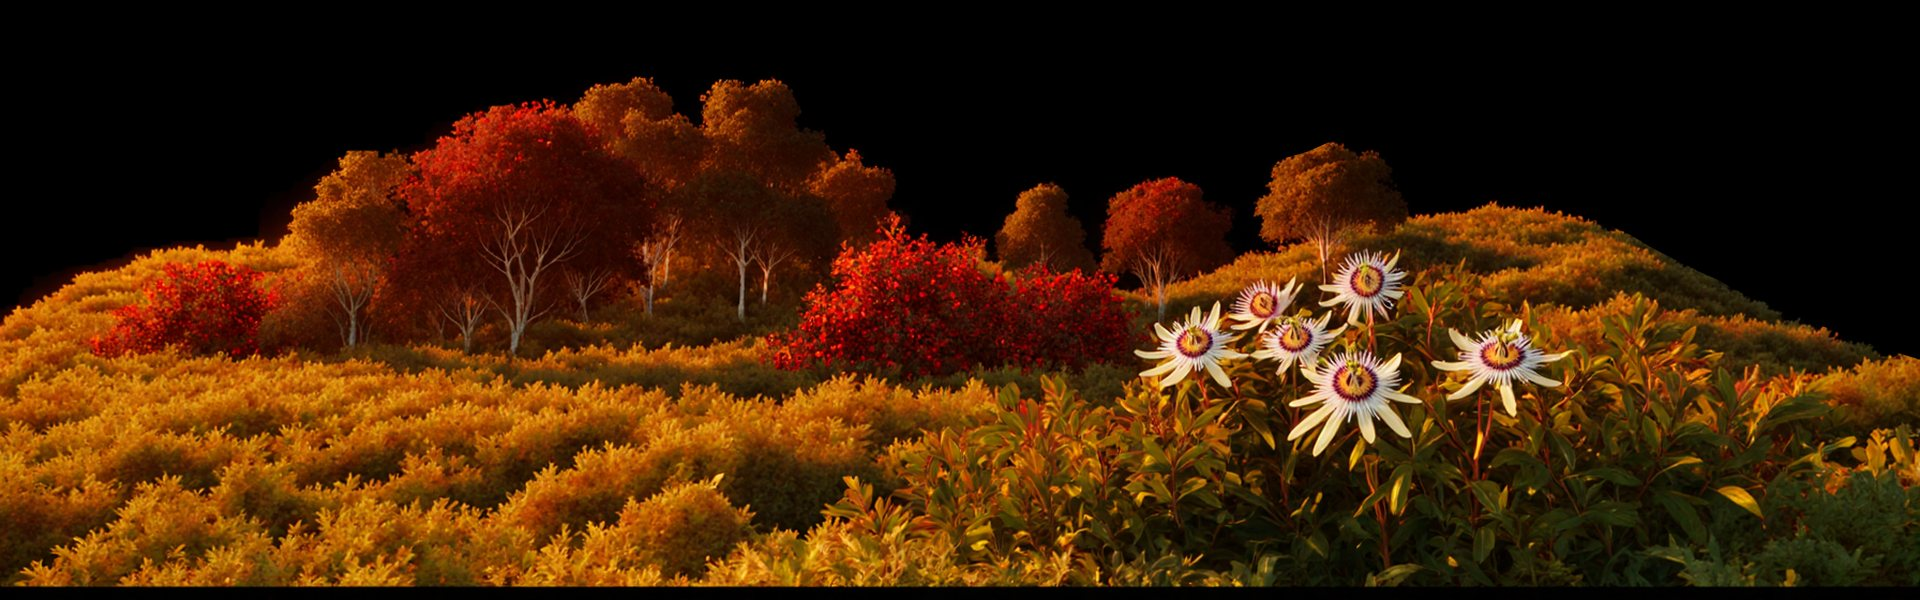
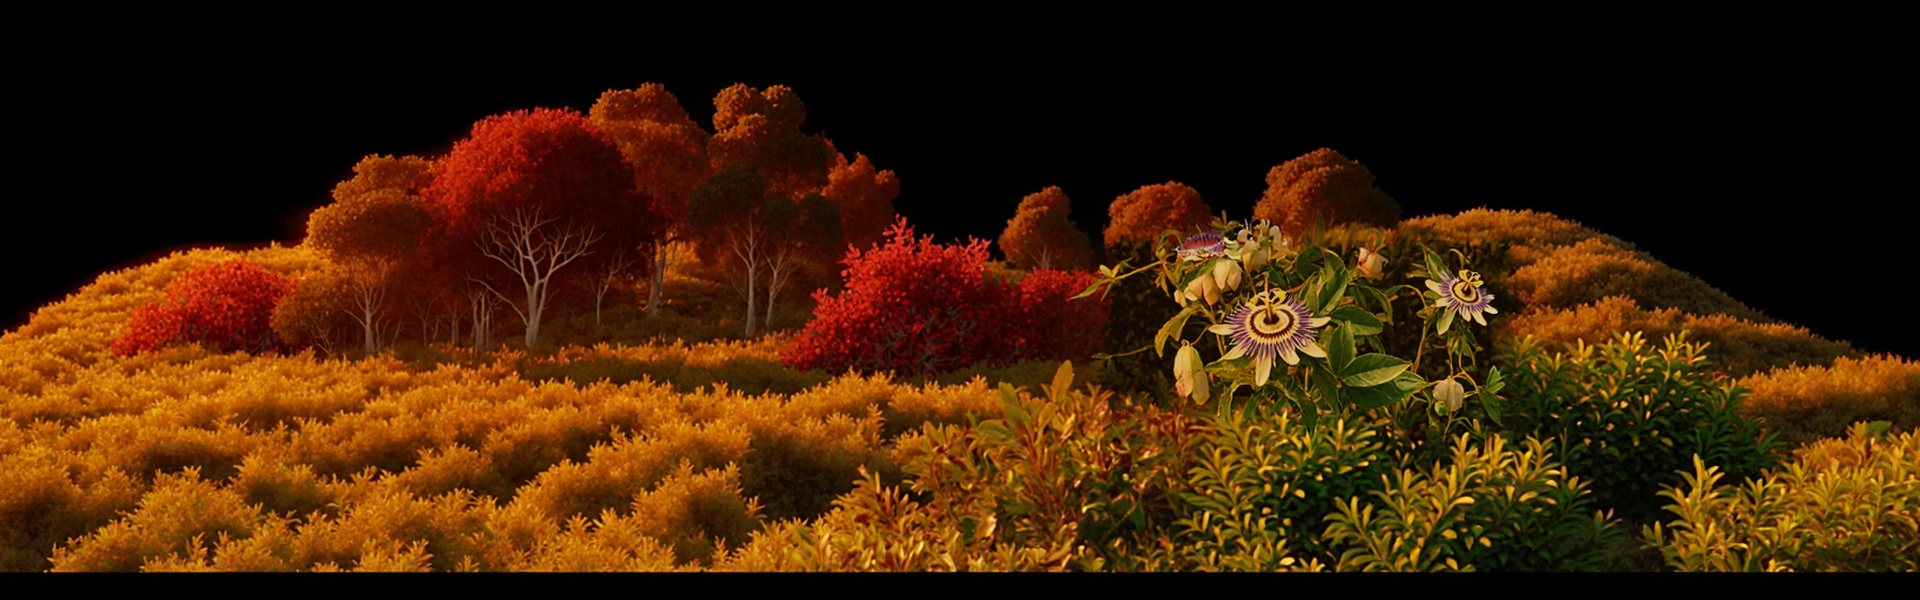
B1.04: mburucuya real (Passiflora caerulea) con las fotos de referencia del equipo, a escala real
Corona azul-blanca-violeta, cruz de anteras y estigmas, enredadera con zarcillos; reemplaza las flores
"tipo margarita" del previo de ayer. Centro sin cambios.

diff --git a/pipeline/b1_atardecer_2025/mburucuya_fix3.py b/pipeline/b1_atardecer_2025/mburucuya_fix3.py
@@ -1,0 +1,58 @@
+# -*- coding: utf-8 -*-
+"""B1.04 · mburucuyá a escala real: se agrega en recortes de la zona de arbustos (donde estaban las flores en 2025), se pega reducido
+con borde difuminado sobre la imagen sin flores, y Flux suave unifica. Máscara + silueta 2025.
+Uso: python mburucuya_fix3.py DIR_PASO1(sin flores) DIR_SALIDA [denoise_flux]"""
+import glob, os, sys, hashlib
+HERE = os.path.dirname(os.path.abspath(__file__))
+sys.path.insert(0, HERE); sys.path.insert(0, "D:/FNT2026/WEB_FNT2026/pipeline")
+import numpy as np
+from PIL import Image, ImageFilter
+import comfy, graphs, surfaces, flux_cine
+
+P1, OUT = sys.argv[1], sys.argv[2]; os.makedirs(OUT, exist_ok=True)
+DEN = float(sys.argv[3]) if len(sys.argv) > 3 else 0.25
+B = "D:/FNT2026/03_BLOQUES/B1_PAISAJES/B1.04_HIJOS_DE_LA_SELVA_GUARANIES"
+REFS = sorted(glob.glob(B + "/01_REFERENCIAS/mburucuya/*.jpg"))
+EXT = {"izq": "left", "der": "right"}
+# zonas (en la imagen de 1920x600 / 2048x600) donde estaban las flores de 2025, ~2.4:1 de proporción
+ZONAS = {"izq": [(1030, 215, 1530, 425)], "der": [(30, 205, 610, 445)]}
+
+
+def agregar(s):
+    return ("Add a climbing passion flower vine (mburucuya, Passiflora caerulea) scrambling over the green shrubs in image 1, exactly like the plant in the "
+            "reference photos (image 2 and image 3): thin stems with curly tendrils, palmate leaves, a few closed green buds and three to five open flowers. "
+            "Each open flower: five white petals and five sepals, a ring of many fine filaments banded blue-violet at the tips, white in the middle and dark purple "
+            "near the center, and in the center an upright green stalk with five yellow-green anthers and three dark purple stigmas forming a cross. "
+            "The flowers face different directions and sit among the leaves of the shrubs, partly hidden, at the same distance as the shrubs (not in the foreground). "
+            "Everything is lit by the same warm golden sunset light coming from the " + EXT[s] + " as image 1: the white petals take a warm amber-orange tint, "
+            "with the shadow sides darker. Keep the shrubs, the trees, the composition and the black background of image 1 exactly the same. Photorealistic.")
+
+
+ref_names = []
+for i, p in enumerate(REFS):
+    im = Image.open(p).convert("RGB"); im.thumbnail((1024, 1024))
+    ref_names.append(comfy.put_input(im, f"fnt26_mburucuya_ref_{i}.png"))
+for s in ("izq", "der"):
+    base = Image.open(os.path.join(P1, f"B1.04_{s}_1_sin_flores.png")).convert("RGB")
+    out = base.copy()
+    seed = int(hashlib.md5(("B1.04" + s + "mbur3").encode()).hexdigest()[:6], 16)
+    for k, (x0, y0, x1, y1) in enumerate(ZONAS[s]):
+        crop = base.crop((x0, y0, x1, y1))
+        cn = comfy.put_input(crop.resize((crop.width * 2, crop.height * 2), Image.LANCZOS), f"fnt26_b104_{s}_z{k}.png")
+        r = comfy.run(graphs.qwen_edit([cn] + ref_names, agregar(s), seed + k, f"FNT26/B104mbur3/{s}_z{k}", megapixels=1.0), os.path.join(OUT, "raw"), label=f"B1.04 {s} zona {k}")
+        res = Image.open(r[0]).convert("RGB").resize(crop.size, Image.LANCZOS)
+        res.save(os.path.join(OUT, f"B1.04_{s}_zona{k}.png"))
+        # pegar con borde difuminado
+        m = Image.new("L", crop.size, 0); f = 22
+        m.paste(255, (f, f, crop.width - f, crop.height - f)); m = m.filter(ImageFilter.GaussianBlur(f * 0.6))
+        out.paste(res, (x0, y0), m)
+    p2 = os.path.join(OUT, f"B1.04_{s}_2_mburucuya.png"); out.save(p2)
+    w, h = surfaces.SURF[s][3]
+    pf = flux_cine.prompt("B1.04", s).replace("white passion flowers", "a climbing passion flower vine (mburucuya, Passiflora caerulea) among the shrubs, with small white flowers with a corona of fine blue, white and purple filaments")
+    r = comfy.run(flux_cine.flux_i2i(comfy.put_input(out, f"fnt26_b104_{s}_m3.png"), pf, w, h, seed, f"FNT26/B104mbur3/{s}_flux", DEN), os.path.join(OUT, "raw"), label=f"B1.04 {s} flux {DEN}")
+    fin = surfaces.apply_mask(Image.open(r[0]).convert("RGB"), s)
+    sil = flux_cine.silueta_2025("B1.04", s, fin.size)
+    fin = Image.fromarray((np.asarray(fin).astype(np.float32) * sil[..., None] + .5).astype(np.uint8))
+    fin.save(os.path.join(OUT, f"B1.04_{s}_final_d{DEN}.png"))
+    print("ok", s, flush=True)
+print("===LISTO===")
